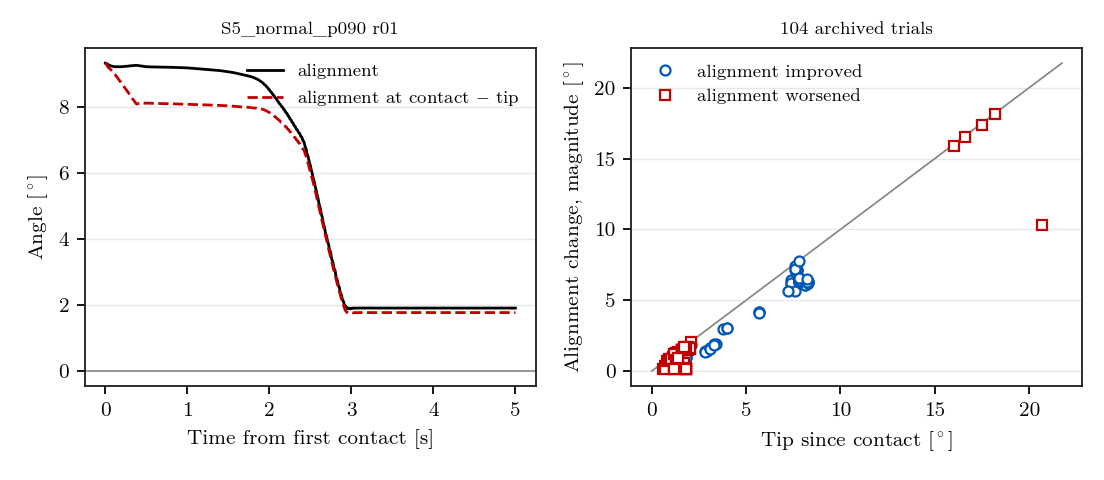
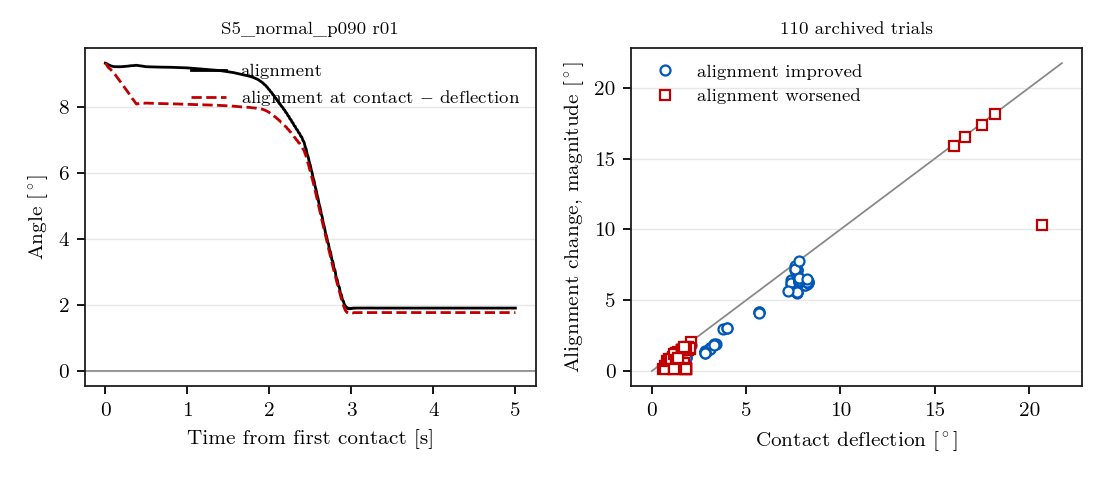
Name the second angle for what it measures
"tip" read as the point of the tool and meant a rotation. The quantity is the
angular deflection from the orientation the set-up phase freezes at first
contact, which is the error the rotational stiffness works against, so it is
now contact_deflection. That also matches the wording already settled on for
p_contact, r_contact and M_contact.

The two angles now separate on their names. The alignment angle says where the
tool stands against the plane and has an absolute zero. The contact deflection
says how far it moved since contact and needs no calibration.

Log parsing accepts the old "tip=" as well, so archives written before the
rename still read.

diff --git a/analysis/compare_angle_metrics.py b/analysis/compare_angle_metrics.py
@@ -9,18 +9,19 @@ Two quantities describe the same event and are measured from different data.
              an absolute zero, so a curve can be read as "flat" or "not flat",
              but it carries the tool-axis and plane calibration with it.
 
-  tip        the rotation of the end-effector since first contact. It comes
-             from joint angles alone, so no calibration enters, but it only
-             says how far the tool turned, not where it ended up.
+  contact    the deflection from the orientation held at first contact. It
+  deflection comes from joint angles alone, so no calibration enters, but it
+             only says how far the tool turned, not where it ended up.
 
-The left panel overlays them for one trial, with tip subtracted from the
-alignment at contact so both start at the same value. The right panel puts the
-magnitude of the alignment gain against the tip for every archived trial, split
-by whether the trial improved or worsened the alignment.
+The left panel overlays them for one trial, with the deflection subtracted from
+the alignment at contact so both start at the same value. The right panel puts
+the magnitude of the alignment gain against the deflection for every archived
+trial, split by whether the trial improved or worsened the alignment.
 
 The magnitudes agree, which shows the calibration does not corrupt the reported
-effect. Only the alignment carries the sign, because tip is the length of a
-rotation and cannot tell a tool turning onto the plane from one turning off it.
+effect. Only the alignment carries the sign, because the deflection is the
+length of a rotation and cannot tell a tool turning onto the plane from one
+turning off it.
 """
 
 import argparse
@@ -64,7 +65,7 @@ SETUP_PHASE = 2  # ControlPhase::kSetup
 
 
 def load_trial(trial_dir):
-    """Return setup-phase time, alignment angle, and tip angle for one trial."""
+    """Return set-up time, alignment angle, and contact deflection for a trial."""
     matches = glob.glob(os.path.join(trial_dir, "logs", "*.csv"))
     if not matches:
         raise SystemExit(f"no log csv under {trial_dir}")
@@ -83,25 +84,25 @@ def load_trial(trial_dir):
     setup = d["phase"] == SETUP_PHASE
     t = d["time"][setup]
     alignment = d["alignment_angle_deg"][setup]
-    # Calculating the rotation since first contact, which the setup phase holds
-    # as its frozen orientation reference [deg].
-    tip = np.degrees(np.sqrt(d["e_R_x"][setup] ** 2 +
+    # Calculating the deflection from the orientation the set-up phase holds
+    # frozen as its reference from first contact [deg].
+    deflection = np.degrees(np.sqrt(d["e_R_x"][setup] ** 2 +
                              d["e_R_y"][setup] ** 2 +
                              d["e_R_z"][setup] ** 2))
-    return t - t[0], alignment, tip
+    return t - t[0], alignment, deflection
 
 
 def load_metrics():
-    """Return the alignment gain and tip of every trial that reported both."""
-    gain, tip, label = [], [], []
+    """Return the gain and contact deflection of every trial with both."""
+    gain, deflection, label = [], [], []
     with open(METRICS) as f:
         for row in csv.DictReader(f):
-            if not row.get("align_gain_deg") or not row.get("tip_deg"):
+            if not row.get("align_gain_deg") or not row.get("contact_deflection_deg"):
                 continue
             gain.append(float(row["align_gain_deg"]))
-            tip.append(float(row["tip_deg"]))
+            deflection.append(float(row["contact_deflection_deg"]))
             label.append(row["run_id"])
-    return np.array(gain), np.array(tip), label
+    return np.array(gain), np.array(deflection), label
 
 
 def main():
@@ -112,15 +113,16 @@ def main():
     args = p.parse_args()
     os.makedirs(args.out_dir, exist_ok=True)
 
-    t, alignment, tip = load_trial(args.trial)
-    gain, tip_final, _ = load_metrics()
+    t, alignment, deflection = load_trial(args.trial)
+    gain, deflection_final, _ = load_metrics()
 
     fig, axes = plt.subplots(1, 2, figsize=(6.9, 3.0))
 
     # Left: both descriptions of the same trial, on one absolute scale.
     axes[0].plot(t, alignment, color=SERIES_BLACK, label="alignment")
-    axes[0].plot(t, alignment[0] - tip, color=SERIES_RED, linestyle="--",
-                 label=r"alignment at contact $-$ tip")
+    axes[0].plot(t, alignment[0] - deflection, color=SERIES_RED,
+                 linestyle="--",
+                 label=r"alignment at contact $-$ deflection")
     axes[0].axhline(0.0, color="#888888", linewidth=0.8, zorder=0)
     axes[0].set_xlabel("Time from first contact [s]")
     axes[0].set_ylabel(r"Angle [$^\circ$]")
@@ -129,27 +131,27 @@ def main():
                       os.path.basename(args.trial), fontsize=8)
 
     # Right: the same comparison reduced to one point per archived trial. The
-    # gain is taken as a magnitude, because tip has no sign to compare against.
-    limit = max(np.abs(gain).max(), tip_final.max()) * 1.05
+    # gain is a magnitude here, because the deflection carries no sign.
+    limit = max(np.abs(gain).max(), deflection_final.max()) * 1.05
     axes[1].plot([0.0, limit], [0.0, limit], color="#888888",
                  linewidth=0.8, zorder=0)
     improved = gain >= 0.0
-    axes[1].plot(tip_final[improved], gain[improved], linestyle="none",
+    axes[1].plot(deflection_final[improved], gain[improved], linestyle="none",
                  marker="o", color=SERIES_BLUE, markerfacecolor="white",
                  markeredgewidth=1.0, label="alignment improved")
-    axes[1].plot(tip_final[~improved], -gain[~improved], linestyle="none",
+    axes[1].plot(deflection_final[~improved], -gain[~improved], linestyle="none",
                  marker="s", color=SERIES_RED, markerfacecolor="white",
                  markeredgewidth=1.0, label="alignment worsened")
-    axes[1].set_xlabel(r"Tip since contact [$^\circ$]")
+    axes[1].set_xlabel(r"Contact deflection [$^\circ$]")
     axes[1].set_ylabel(r"Alignment change, magnitude [$^\circ$]")
     axes[1].set_title(f"{len(gain)} archived trials", fontsize=8)
     axes[1].legend(loc="upper left")
 
-    residual = np.abs(gain) - tip_final
+    residual = np.abs(gain) - deflection_final
     print(f"trials compared        : {len(gain)}")
     print(f"improved / worsened    : {improved.sum()} / {(~improved).sum()}")
-    print(f"mean |gain| - tip      : {residual.mean():+.3f} deg")
-    print(f"median |gain| - tip    : {np.median(residual):+.3f} deg")
+    print(f"mean |gain| - deflection : {residual.mean():+.3f} deg")
+    print(f"median |gain| - defl.    : {np.median(residual):+.3f} deg")
     print(f"within 0.5 deg         : {(np.abs(residual) <= 0.5).sum()} of {len(gain)}")
     worst = int(np.argmax(np.abs(residual)))
     print(f"largest disagreement   : {residual[worst]:+.3f} deg")

diff --git a/analysis/sgc_log.py b/analysis/sgc_log.py
@@ -201,13 +201,14 @@ def setup_metrics(path):
     t = d["time"][setup]
     out["setup_duration_s"] = float(t[-1] - t[0])
 
-    # Tip angle: rotation away from the orientation frozen at the clearance
-    # transition. This is how far the tool TURNED.
+    # Contact deflection: rotation away from the orientation frozen at the
+    # clearance transition. This is how far the tool TURNED, with no reference
+    # to the plane, so no calibration enters it.
     e_r = np.sqrt(d["e_R_x"][setup] ** 2
                   + d["e_R_y"][setup] ** 2
                   + d["e_R_z"][setup] ** 2)
-    out["tip_final_deg"] = float(np.degrees(e_r[-1]))
-    out["tip_max_deg"] = float(np.degrees(e_r.max()))
+    out["contact_deflection_final_deg"] = float(np.degrees(e_r[-1]))
+    out["contact_deflection_max_deg"] = float(np.degrees(e_r.max()))
 
     # Alignment: residual angle to the configured surface. This is how FLAT it
     # ended up, which is the quantity the thesis calls e_R before/after.
@@ -266,7 +267,7 @@ def setup_metrics(path):
     out["tau_max_Nm"] = float(np.abs(tau).max())
     out["tau_norm_max_Nm"] = float(np.linalg.norm(tau, axis=0).max())
 
-    # Equilibrium check: how much the tip still moved over the last 20% of the
+    # Equilibrium check: how much the tool still moved over the last 20% of the
     # phase. Large values mean the reported number is a transient, not an
     # equilibrium, which invalidates the quasi-static reading.
     last = max(2, len(e_r) // 5)
@@ -354,8 +355,10 @@ def parse_setup_report(terminal_log_path):
             if line.startswith("stop:"):
                 for part in line.split("|"):
                     part = part.strip()
-                    if part.startswith("tip="):
-                        out["report_tip_deg"] = float(part[4:].split()[0])
+                    # Archives written before the rename carry "tip=".
+                    if part.startswith(("defl=", "tip=")):
+                        out["report_contact_deflection_deg"] = float(
+                            part.split("=", 1)[1].split()[0])
                     elif part.startswith("F="):
                         out["report_force_N"] = float(part[2:].split()[0])
                     elif part.startswith("M="):

diff --git a/surface_grinding_controller/src/report/setup_evaluation.cpp b/surface_grinding_controller/src/report/setup_evaluation.cpp
@@ -81,17 +81,17 @@ void printSurfaceFrameBreakdown(const ControllerConfig& params,
 void reportSetupResult(const ControllerConfig& params,
                        const Mat3& R_base_surface,
                        const SetupReport& r) {
-  // Calculating final passive tip rotation [deg] and contact displacements [mm].
-  const double actual_tip_deg =
+  // Calculating the final contact deflection [deg] and displacements [mm].
+  const double contact_deflection_deg =
       (180.0 / M_PI) * orientationError(r.R_EE, r.R_contact_start).norm();
   const Vec3 contact_from_start_mm =
       1000.0 * (r.tool_contact_point - r.first_contact_point);
   const Vec3 tcp_from_contact_mm = 1000.0 * (r.p_EE - r.first_contact_point);
 
   printBanner("SETUP RESULT");
-  printf("  stop: %s | t=%.1f s | tip=%.1f deg | F=%.1f N | M=%.1f Nm\n",
+  printf("  stop: %s | t=%.1f s | defl=%.1f deg | F=%.1f N | M=%.1f Nm\n",
          r.stopped_on_moment ? "moment" : "time",
-         r.phase_time, actual_tip_deg, r.force_delta_norm, r.moment_delta_norm);
+         r.phase_time, contact_deflection_deg, r.force_delta_norm, r.moment_delta_norm);
   printf("  contact_from_start = [%+.1f, %+.1f, %+.1f] mm | norm=%.1f mm\n",
          contact_from_start_mm(0), contact_from_start_mm(1),
          contact_from_start_mm(2), contact_from_start_mm.norm());

diff --git a/surface_grinding_controller/src/interface/terminal_output.cpp b/surface_grinding_controller/src/interface/terminal_output.cpp
@@ -449,13 +449,13 @@ void printApproachDescendDebug(double phase_time,
 }
 
 void printSetupDebug(double phase_time,
-                     double tip_deg,
+                     double deflection_deg,
                      double force_n,
                      double moment_nm,
                      double moment_limit_nm,
                      double contact_mm) {
-  printf("setup:     t=%5.1f s | tip=%5.1f deg | F=%5.1f N | M=%5.1f Nm (limit %.1f) | contact=%5.1f mm\n",
-         phase_time, tip_deg, force_n, moment_nm, moment_limit_nm, contact_mm);
+  printf("setup:     t=%5.1f s | defl=%5.1f deg | F=%5.1f N | M=%5.1f Nm (limit %.1f) | contact=%5.1f mm\n",
+         phase_time, deflection_deg, force_n, moment_nm, moment_limit_nm, contact_mm);
 }
 
 void printGrindDebug(double phase_time,

diff --git a/surface_grinding_controller/include/controller_api.h b/surface_grinding_controller/include/controller_api.h
@@ -422,9 +422,10 @@ void printApproachDescendDebug(double phase_time,
                                double target_height_mm,
                                double force_n);
 
-/// Prints setup tilt, force, moment, and tool-feature displacement.
+/// Prints the contact deflection, force, moment, and contact displacement.
+/// @param deflection_deg Rotation from the orientation held at first contact [deg].
 void printSetupDebug(double phase_time,
-                     double tip_deg,
+                     double deflection_deg,
                      double force_n,
                      double moment_nm,
                      double moment_limit_nm,

diff --git a/analysis/extract_metrics.py b/analysis/extract_metrics.py
@@ -45,7 +45,9 @@ PARAM_KEYS = (
 FIELDS = (
     ("stop_reason", re.compile(r"^\s*stop:\s*(\w+)")),
     ("phase_time_s", re.compile(r"stop:.*\|\s*t=([-\d.]+)\s*s")),
-    ("tip_deg", re.compile(r"stop:.*\|\s*tip=([-\d.]+)\s*deg")),
+    # Archives written before the rename carry "tip=" instead of "defl=".
+    ("contact_deflection_deg",
+     re.compile(r"stop:.*\|\s*(?:defl|tip)=([-\d.]+)\s*deg")),
     ("force_norm_n", re.compile(r"stop:.*\|\s*F=([-\d.]+)\s*N")),
     ("moment_norm_nm", re.compile(r"stop:.*\|\s*M=([-\d.]+)\s*Nm")),
     ("align_before_deg", re.compile(r"alignment:\s*before=([-\d.]+)")),
